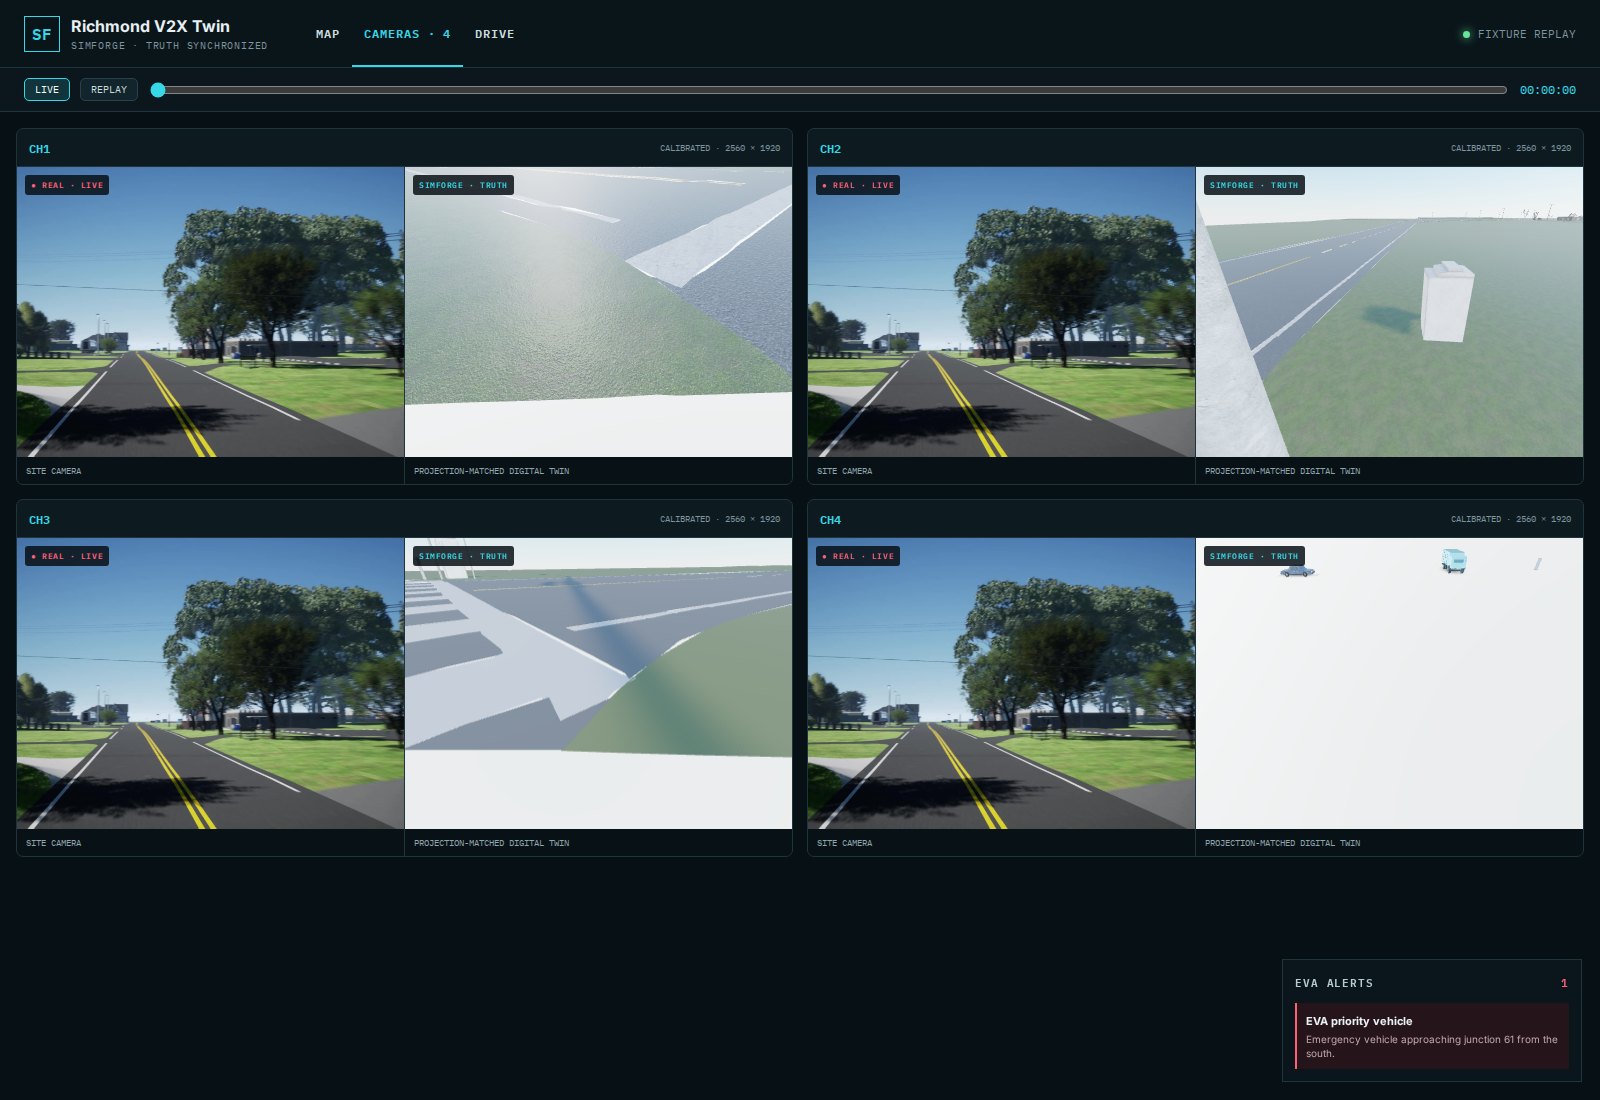
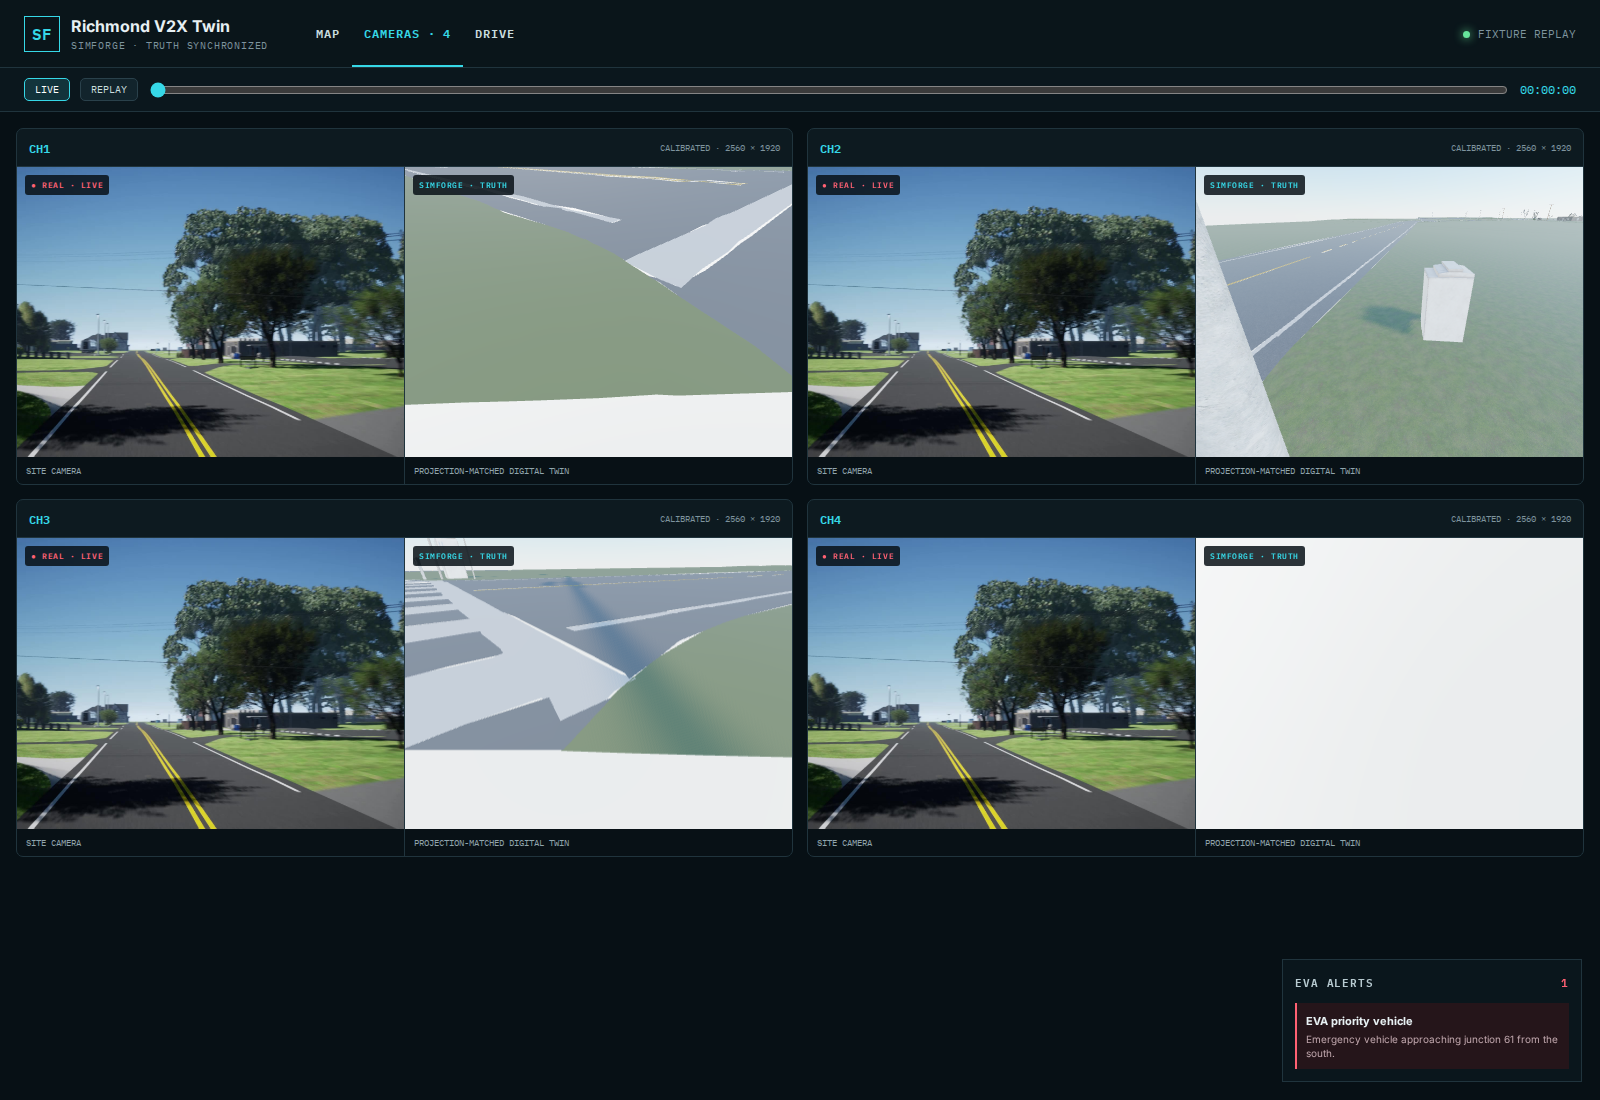
fix(twin-web): align drive and replay wire contracts

Changed region(s): [[0.25, 0.1545, 0.5, 0.3709], [0.875, 0.4945, 0.9375, 0.5255], [0.7812, 0.4945, 0.8125, 0.5255]]

diff --git a/apps/twin-web/src/App.tsx b/apps/twin-web/src/App.tsx
@@ -44,7 +44,10 @@ function useTwinSocket(fixtureMode: boolean) {
     socket.onmessage = (event) => {
       if (typeof event.data === 'string') {
         const message = JSON.parse(event.data);
-        if (message.type === 'twin_clock') setClock(Number(message.time ?? message.clock ?? 0));
+        if (message.type === 'twin_clock' && message.replay_clock) {
+          const replayDate = new Date(message.replay_clock);
+          setClock(replayDate.getUTCHours() * 3600 + replayDate.getUTCMinutes() * 60 + replayDate.getUTCSeconds());
+        }
         if (message.type === 'twin_mode') setMode(message.mode);
         if (message.type === 'eva_alert') setAlerts((current) => [...current, { id: crypto.randomUUID(), title: message.title ?? 'EVA alert', message: message.message ?? 'Emergency vehicle activity' }]);
         if (message.type === 'telemetry') setTelemetry({ speed: Number(message.speed ?? 0), gear: Number(message.gear ?? 0) });
@@ -112,6 +115,7 @@ function DrivePage({ frames, fixtureMode }: { frames: readonly TruthFrame[]; fix
   const [active, setActive] = useState(false);
   const [cameraMode, setCameraMode] = useState<'chase' | 'first-person'>('chase');
   const [telemetry, setTelemetry] = useState({ speed: 11.9, gear: 2 });
+  const [egoActorId, setEgoActorId] = useState<string | null>(null);
   const keys = useRef(new Set<string>());
   const socketRef = useRef<WebSocket | null>(null);
   const transmit = useCallback((message: object) => {
@@ -126,8 +130,9 @@ function DrivePage({ frames, fixtureMode }: { frames: readonly TruthFrame[]; fix
       if (typeof event.data !== 'string') return;
       const message = JSON.parse(event.data);
       if (message.type === 'telemetry') setTelemetry({ speed: Number(message.speed ?? 0), gear: Number(message.gear ?? 0) });
-      if (message.type === 'session_ready') setActive(true);
-      if (message.type === 'session_ended') setActive(false);
+      if (message.type === 'session_ready') { setActive(true); setEgoActorId(String(message.vehicle_id)); }
+      if (message.type === 'respawned' || message.type === 'teleported') setEgoActorId(String(message.vehicle_id));
+      if (message.type === 'session_ended') { setActive(false); setEgoActorId(null); }
     };
     return () => socket.close();
   }, [fixtureMode]);
@@ -139,14 +144,21 @@ function DrivePage({ frames, fixtureMode }: { frames: readonly TruthFrame[]; fix
     const loop = window.setInterval(() => {
       if (!active) return;
       const held = keys.current;
-      transmit({ type: 'control', s: (held.has('a') || held.has('arrowleft') ? -1 : 0) + (held.has('d') || held.has('arrowright') ? 1 : 0), t: held.has('w') || held.has('arrowup') ? 1 : 0, b: held.has('s') || held.has('arrowdown') ? 1 : 0, rev: false });
+      transmit({ type: 'control', s: (held.has('a') || held.has('arrowleft') ? -1 : 0) + (held.has('d') || held.has('arrowright') ? 1 : 0), t: held.has('w') || held.has('arrowup') ? 1 : 0, b: held.has('s') || held.has('arrowdown') ? 1 : 0, r: false });
     }, 50);
     return () => { window.removeEventListener('keydown', down); window.removeEventListener('keyup', up); clearInterval(loop); };
   }, [active, transmit]);
-  const egoId = frames.at(-1)?.actors.find((actor) => actor.id.includes('ego'))?.id ?? frames.at(-1)?.actors[0]?.id ?? null;
-  return <main className="drive-page"><TwinScene frames={frames} followActorId={egoId} cameraMode={cameraMode} /><div className="drive-hud">
+  const fixtureEgoId = frames.at(-1)?.actors.find((actor) => actor.id.includes('ego'))?.id ?? frames.at(-1)?.actors[0]?.id ?? null;
+  return <main className="drive-page"><TwinScene frames={frames} followActorId={egoActorId ?? fixtureEgoId} cameraMode={cameraMode} /><div className="drive-hud">
     <div className="mode-label">DRIVING MODE <span>{active ? 'SESSION ACTIVE' : fixtureMode ? 'FIXTURE READY' : 'SESSION READY'}</span></div><div className="speed"><strong>{Math.round(telemetry.speed * 3.6)}</strong><span>km/h</span></div><div className="gear">GEAR {telemetry.gear}</div>
-    <div className="drive-actions"><button className={active ? 'danger' : 'primary'} onClick={() => { transmit({ type: active ? 'end_session' : 'start_session', vehicle: 'vehicle.sedan' }); if (fixtureMode) setActive(!active); }}>{active ? 'End session' : 'Start drive session'}</button><button onClick={() => setCameraMode(cameraMode === 'chase' ? 'first-person' : 'chase')}>{cameraMode === 'chase' ? 'Chase camera' : 'First-person camera'}</button></div>
+    <div className="drive-actions"><button className={active ? 'danger' : 'primary'} onClick={() => {
+      if (active) transmit({ type: 'end_session' });
+      else {
+        const end = new Date();
+        transmit({ type: 'start_session', start: new Date(end.getTime() - 3_600_000).toISOString(), end: end.toISOString(), vehicle: 'vehicle.sedan' });
+      }
+      if (fixtureMode) setActive(!active);
+    }}>{active ? 'End session' : 'Start drive session'}</button><button onClick={() => setCameraMode(cameraMode === 'chase' ? 'first-person' : 'chase')}>{cameraMode === 'chase' ? 'Chase camera' : 'First-person camera'}</button></div>
     <div className="key-hint"><kbd>W</kbd><kbd>A</kbd><kbd>S</kbd><kbd>D</kbd> or arrows to drive</div>
   </div></main>;
 }
@@ -161,7 +173,15 @@ export default function App() {
   const timestamp = useMemo(() => new Date(twin.clock * 1000).toISOString().slice(11, 19), [twin.clock]);
   return <div className="app-shell">
     <header className="topbar"><div className="brand"><span className="brand-mark">SF</span><div><strong>Richmond V2X Twin</strong><small>SimForge · truth synchronized</small></div></div><nav>{(['map','cameras','drive'] as Page[]).map((item) => <button key={item} className={page === item ? 'active' : ''} onClick={() => setPage(item)}>{item === 'cameras' ? 'Cameras · 4' : item}</button>)}</nav><div className="connection"><i className={twin.connected ? 'online' : ''}/>{fixtureMode ? 'FIXTURE REPLAY' : twin.connected ? 'CONNECTED' : 'OFFLINE'}</div></header>
-    <section className="replay-bar"><button className={twin.mode === 'live' ? 'active' : ''} onClick={() => { twin.setMode('live'); twin.send({ type: 'twin_live' }); }}>Live</button><button className={twin.mode === 'replay' ? 'active' : ''} onClick={() => { twin.setMode('replay'); twin.send({ type: 'twin_replay', start: twin.clock, speed: 1 }); }}>Replay</button><input aria-label="Replay clock" type="range" min="0" max="40" step=".05" value={twin.clock} onChange={(event) => { const value = Number(event.target.value); twin.setClock(value); twin.send({ type: 'twin_replay', start: value, speed: 1 }); }} /><time>{timestamp}</time></section>
+    <section className="replay-bar"><button className={twin.mode === 'live' ? 'active' : ''} onClick={() => { twin.setMode('live'); twin.send({ type: 'twin_live' }); }}>Live</button><button className={twin.mode === 'replay' ? 'active' : ''} onClick={() => {
+      twin.setMode('replay');
+      const start = new Date(); start.setUTCHours(0, 0, twin.clock, 0);
+      twin.send({ type: 'twin_replay', start: start.toISOString(), speed: 1 });
+    }}>Replay</button><input aria-label="Replay clock" type="range" min="0" max="86400" step="1" value={twin.clock} onChange={(event) => {
+      const value = Number(event.target.value); twin.setClock(value);
+      const start = new Date(); start.setUTCHours(0, 0, value, 0);
+      twin.send({ type: 'twin_replay', start: start.toISOString(), speed: 1 });
+    }} /><time>{timestamp}</time></section>
     {page === 'cameras' && <CameraPage frames={twin.frames} cameras={twin.cameras}/>}
     {page === 'drive' && <DrivePage frames={twin.frames} fixtureMode={fixtureMode}/>}
     {page === 'map' && <main className="map-page"><TwinScene frames={twin.frames}/><ZoneEditor send={twin.send}/><OperationsPanel send={twin.send}/><aside className="objects-panel"><h2>Truth objects</h2>{actorList.map((actor) => <button key={actor.id} onClick={() => setSelectedActor(actor)}><span>{actor.class}</span>{actor.id}</button>)}</aside>{selectedActor && <aside className="detail-panel"><button onClick={() => setSelectedActor(null)}>×</button><small>OBJECT DETAIL</small><h2>{selectedActor.id}</h2><dl><dt>Class</dt><dd>{selectedActor.class}</dd><dt>Dimensions</dt><dd>{selectedActor.dims.l} × {selectedActor.dims.w} × {selectedActor.dims.h} m</dd><dt>Source</dt><dd>{/mirror|ghost/.test(selectedActor.id) ? 'Mirrored V2X detection' : 'SimForge truth'}</dd></dl></aside>}</main>}
